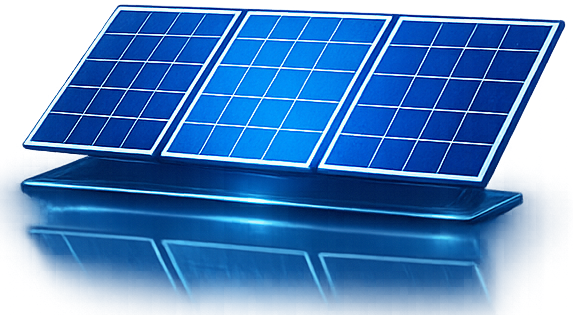
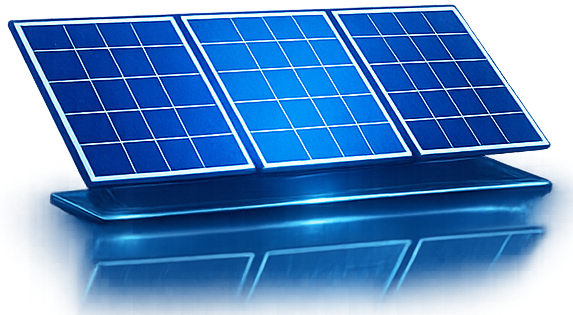
Update PV node position and dimensions in Scene V1

diff --git a/dist/neon-energy-flow-card.js b/dist/neon-energy-flow-card.js
@@ -95,37 +95,52 @@ var SCENE_V1 = {
     {
       id: "pv",
       asset: "nodes/pv.png",
-      xPx: 840,
-      yPx: 170,
-      widthPx: 573
+      xPx: 387,
+      //840,
+      yPx: 294,
+      //170,
+      widthPx: 477,
+      //573
+      flipY: true
     },
     {
       id: "inverter",
       asset: "nodes/inverter.png",
-      xPx: 840,
-      yPx: 540,
-      widthPx: 135
+      xPx: 854,
+      //840,
+      yPx: 580,
+      //540,
+      widthPx: 187
     },
     {
       id: "battery",
       asset: "nodes/battery.png",
-      xPx: 460,
-      yPx: 700,
-      widthPx: 150
+      xPx: 393,
+      //460,
+      yPx: 791,
+      //700,
+      widthPx: 208
+      //150
     },
     {
       id: "grid",
       asset: "nodes/meter.png",
-      xPx: 1220,
-      yPx: 700,
-      widthPx: 106
+      xPx: 1374,
+      //1220,
+      yPx: 801,
+      //700,
+      widthPx: 142
+      //106
     },
     {
       id: "home",
       asset: "nodes/home.png",
-      xPx: 840,
-      yPx: 910,
-      widthPx: 600
+      xPx: 1323,
+      //840,
+      yPx: 330,
+      //910,
+      widthPx: 662
+      //287
     }
   ],
   links: [
